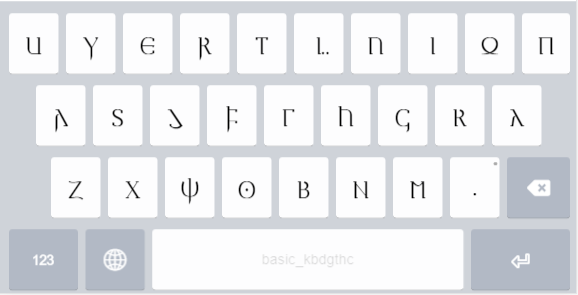
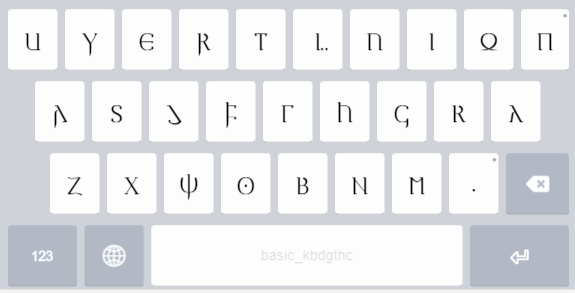
fix language tag, help and touch layout

diff --git a/release/basic/basic_kbdgthc/source/help/basic_kbdgthc.php b/release/basic/basic_kbdgthc/source/help/basic_kbdgthc.php
@@ -12,8 +12,6 @@
 </p>
 <br/>
 
-<p>This keyboard makes use of SHIFT+RALT keys which are set by default when Keyman is installed. To use this keyboard, you must go to <b>Configuration.../Hotkeys</b> and select the hotkey for "Switch Keyman Desktop Off". Either change the hotkey or turn it off. Do the same for "Open Keyboard Menu" and for "Open Language Switcher".</p>
-
 <h2>Desktop Keyboard Layout</h2>
 <div id='osk' data-states='default shift'>
 </div>
